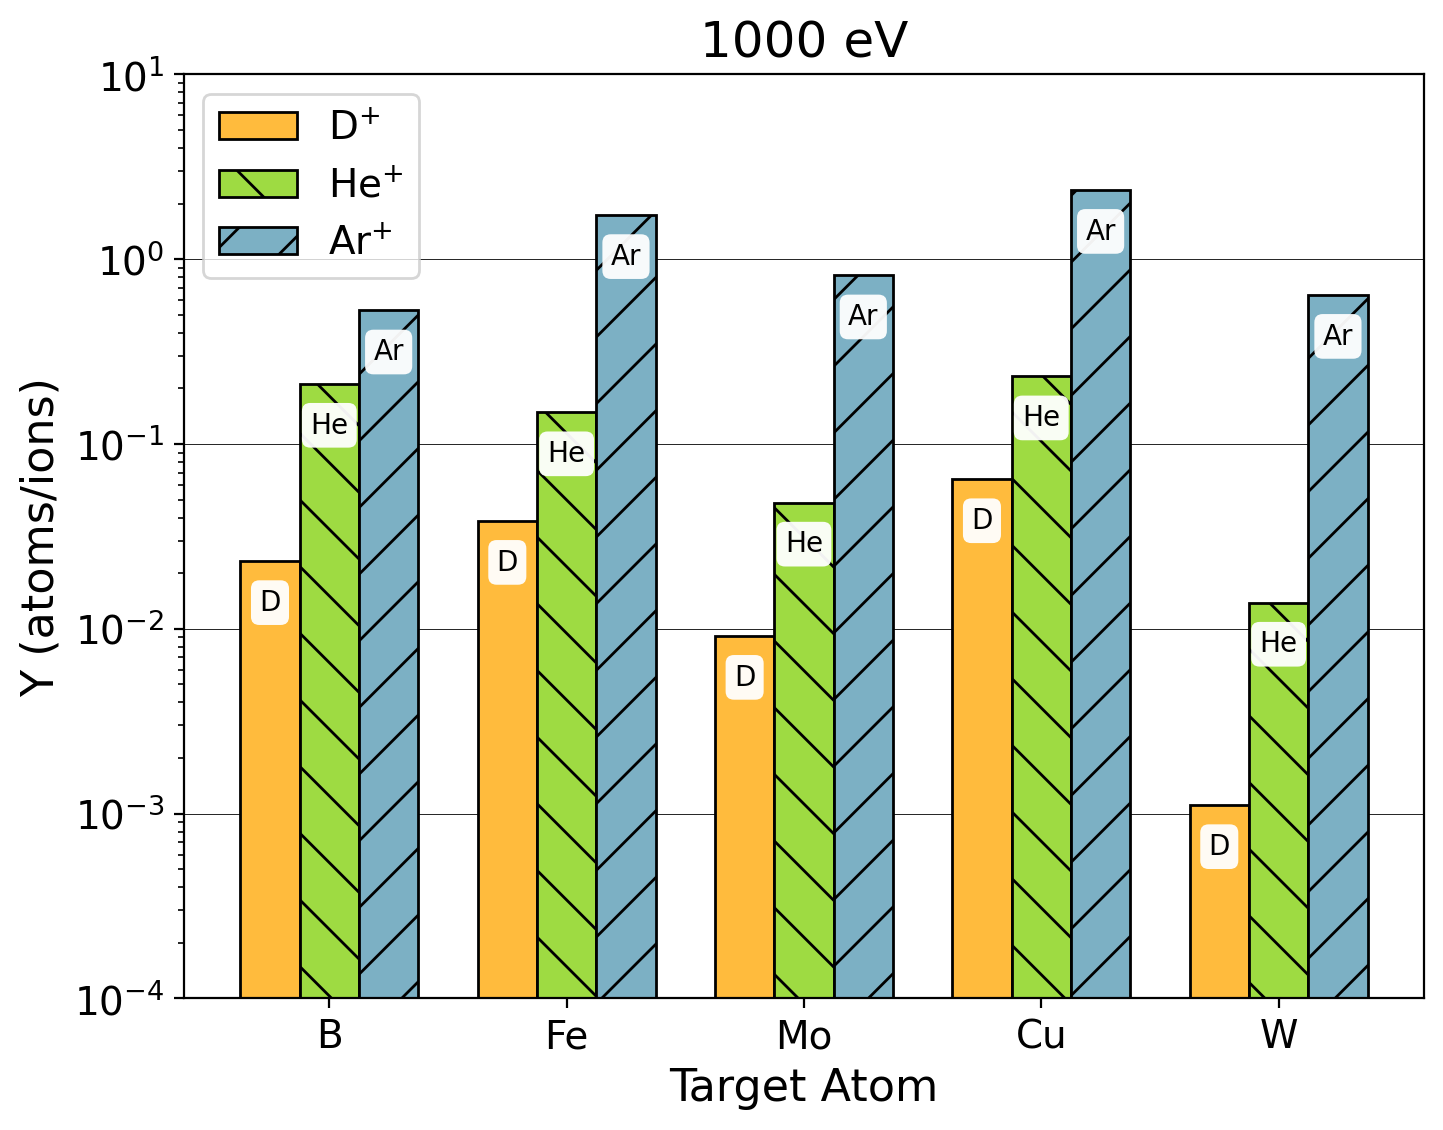
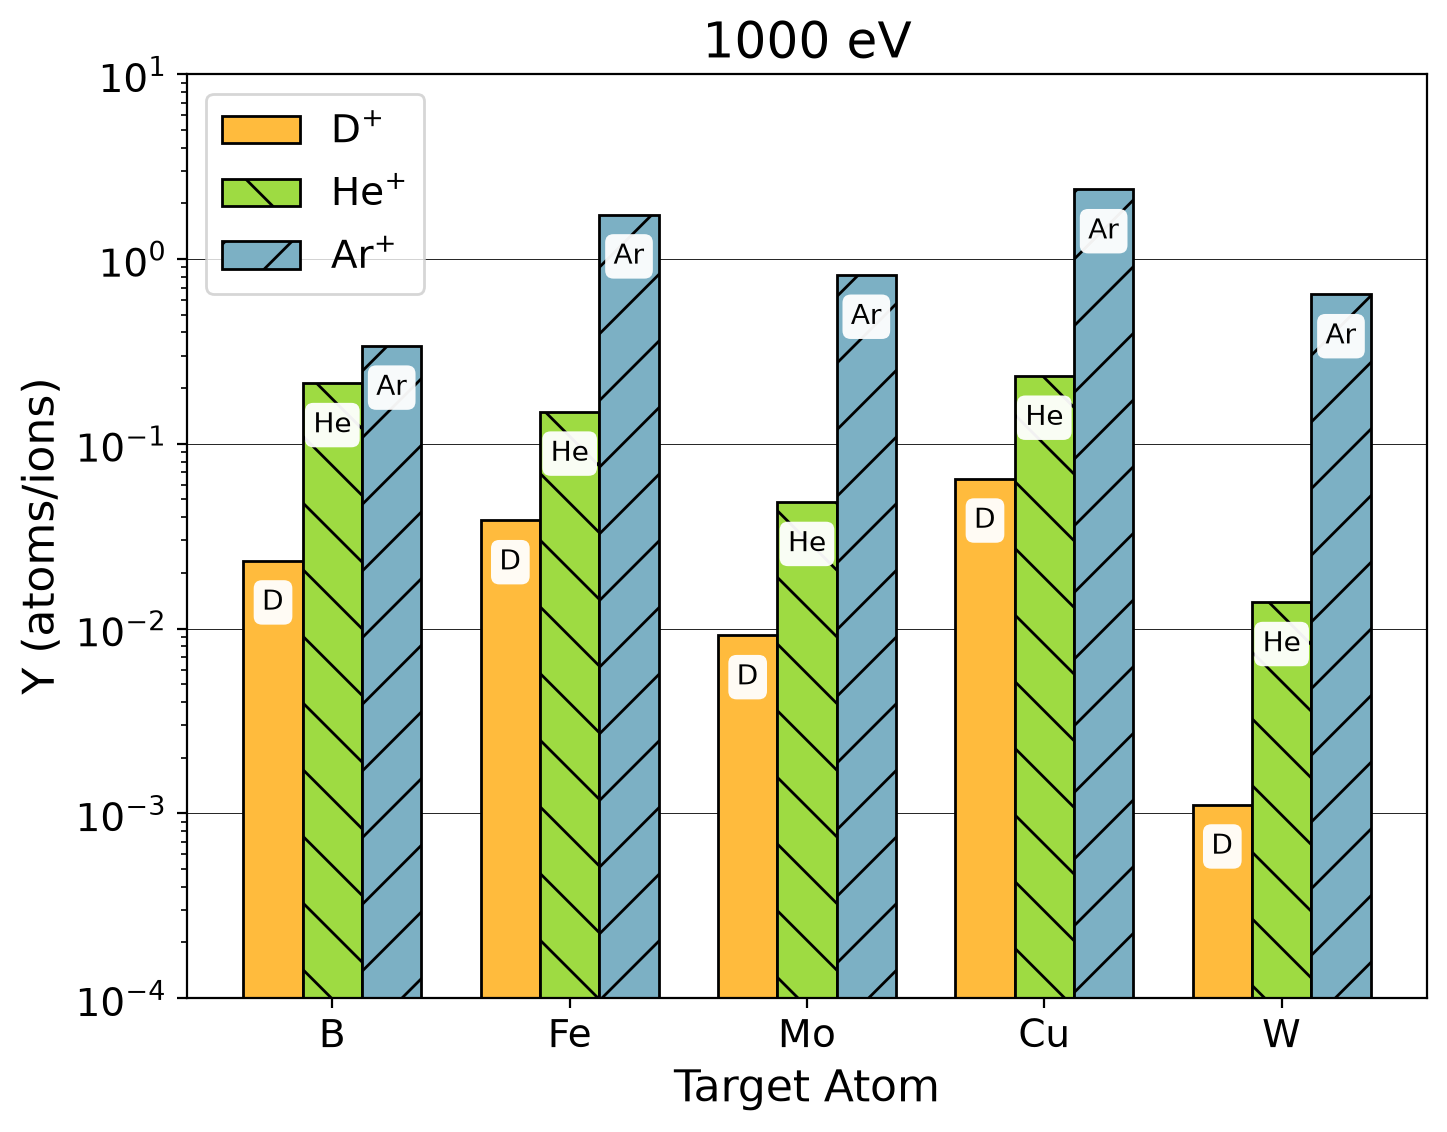
Divide TRIM's sputtered atoms by the ions run, not the AutoSave interval
extract_sputtering_yield_tdata read the third field of TDATA.sav's
"ION NUMB: Current, Total, AutoSave, ..." line (32000, the AutoSave
interval) as the number of incident ions. Every TRIM run here ran 50000
ions, so every Ar->B yield was 50000/32000 = 1.5625 times too high:
0.217 instead of 0.139 at 400 eV, 0.529 instead of 0.338 at 1 keV.

Ar-B.csv is regenerated from TRIM_RESULTS with the fixed function (same
rows, same order; each yield divided by 1.5625), and the yield and bar
figures are redrawn from it. The other tables are digitized and unchanged.

Found by a plasmatrace review of the Hayashi deposition model, which reads
these tables (plasmatrace tools/cad3d/deposition_mc.py and friends).

diff --git a/boron_sputtering.py b/boron_sputtering.py
@@ -123,11 +123,15 @@ def extract_sputtering_yield_tdata(file_path):
                     next_line.split()[0].replace(",", ".").replace("E+", "e")
                 )
 
-            # Extract total incident ions
+            # Extract total incident ions. The line under "ION NUMB:" reads
+            # Current, Total, AutoSave, Transmitted, Backscattered; the
+            # sputtered-atom count belongs to the Current ions (parts[0]), not
+            # to the AutoSave interval (parts[2]), which made every yield
+            # 50000/32000 = 1.5625 times too high until 2026-10-11.
             if "ION NUMB:" in line:
                 next_line = next(file).strip()
                 parts = next_line.split()
-                total_incident_ions = int(parts[2].replace(",", ""))
+                total_incident_ions = int(parts[0].replace(",", ""))
 
             # Stop if both values are found
             if total_sputtered_atoms is not None and total_incident_ions is not None:
